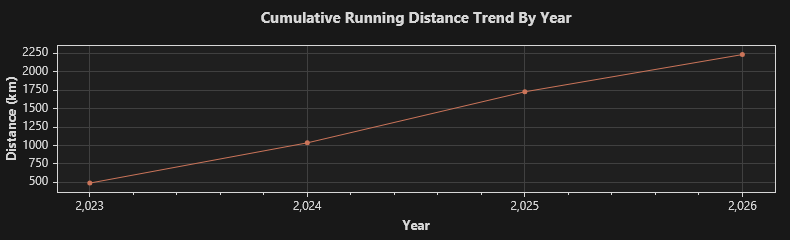
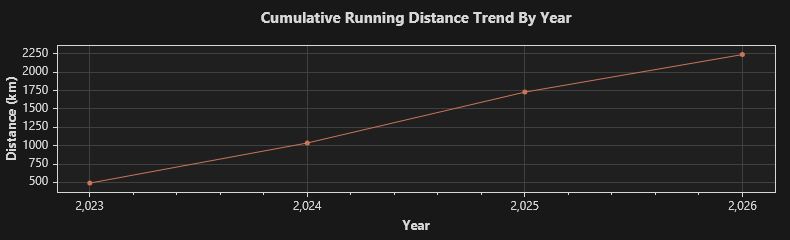
2026/9/16 跑步 6.07 公里

diff --git a/trend.md b/trend.md
@@ -1,4 +1,4 @@
-### Total: 379 days, 2233.2600000000002182787284255 km.
+### Total: 380 days, 2239.3299999999999272404238582 km.
 
 
 ![Monthly](https://github.com/prime167/MyRunningLog/blob/main/data/CumulativeTrendByMonth.png)
